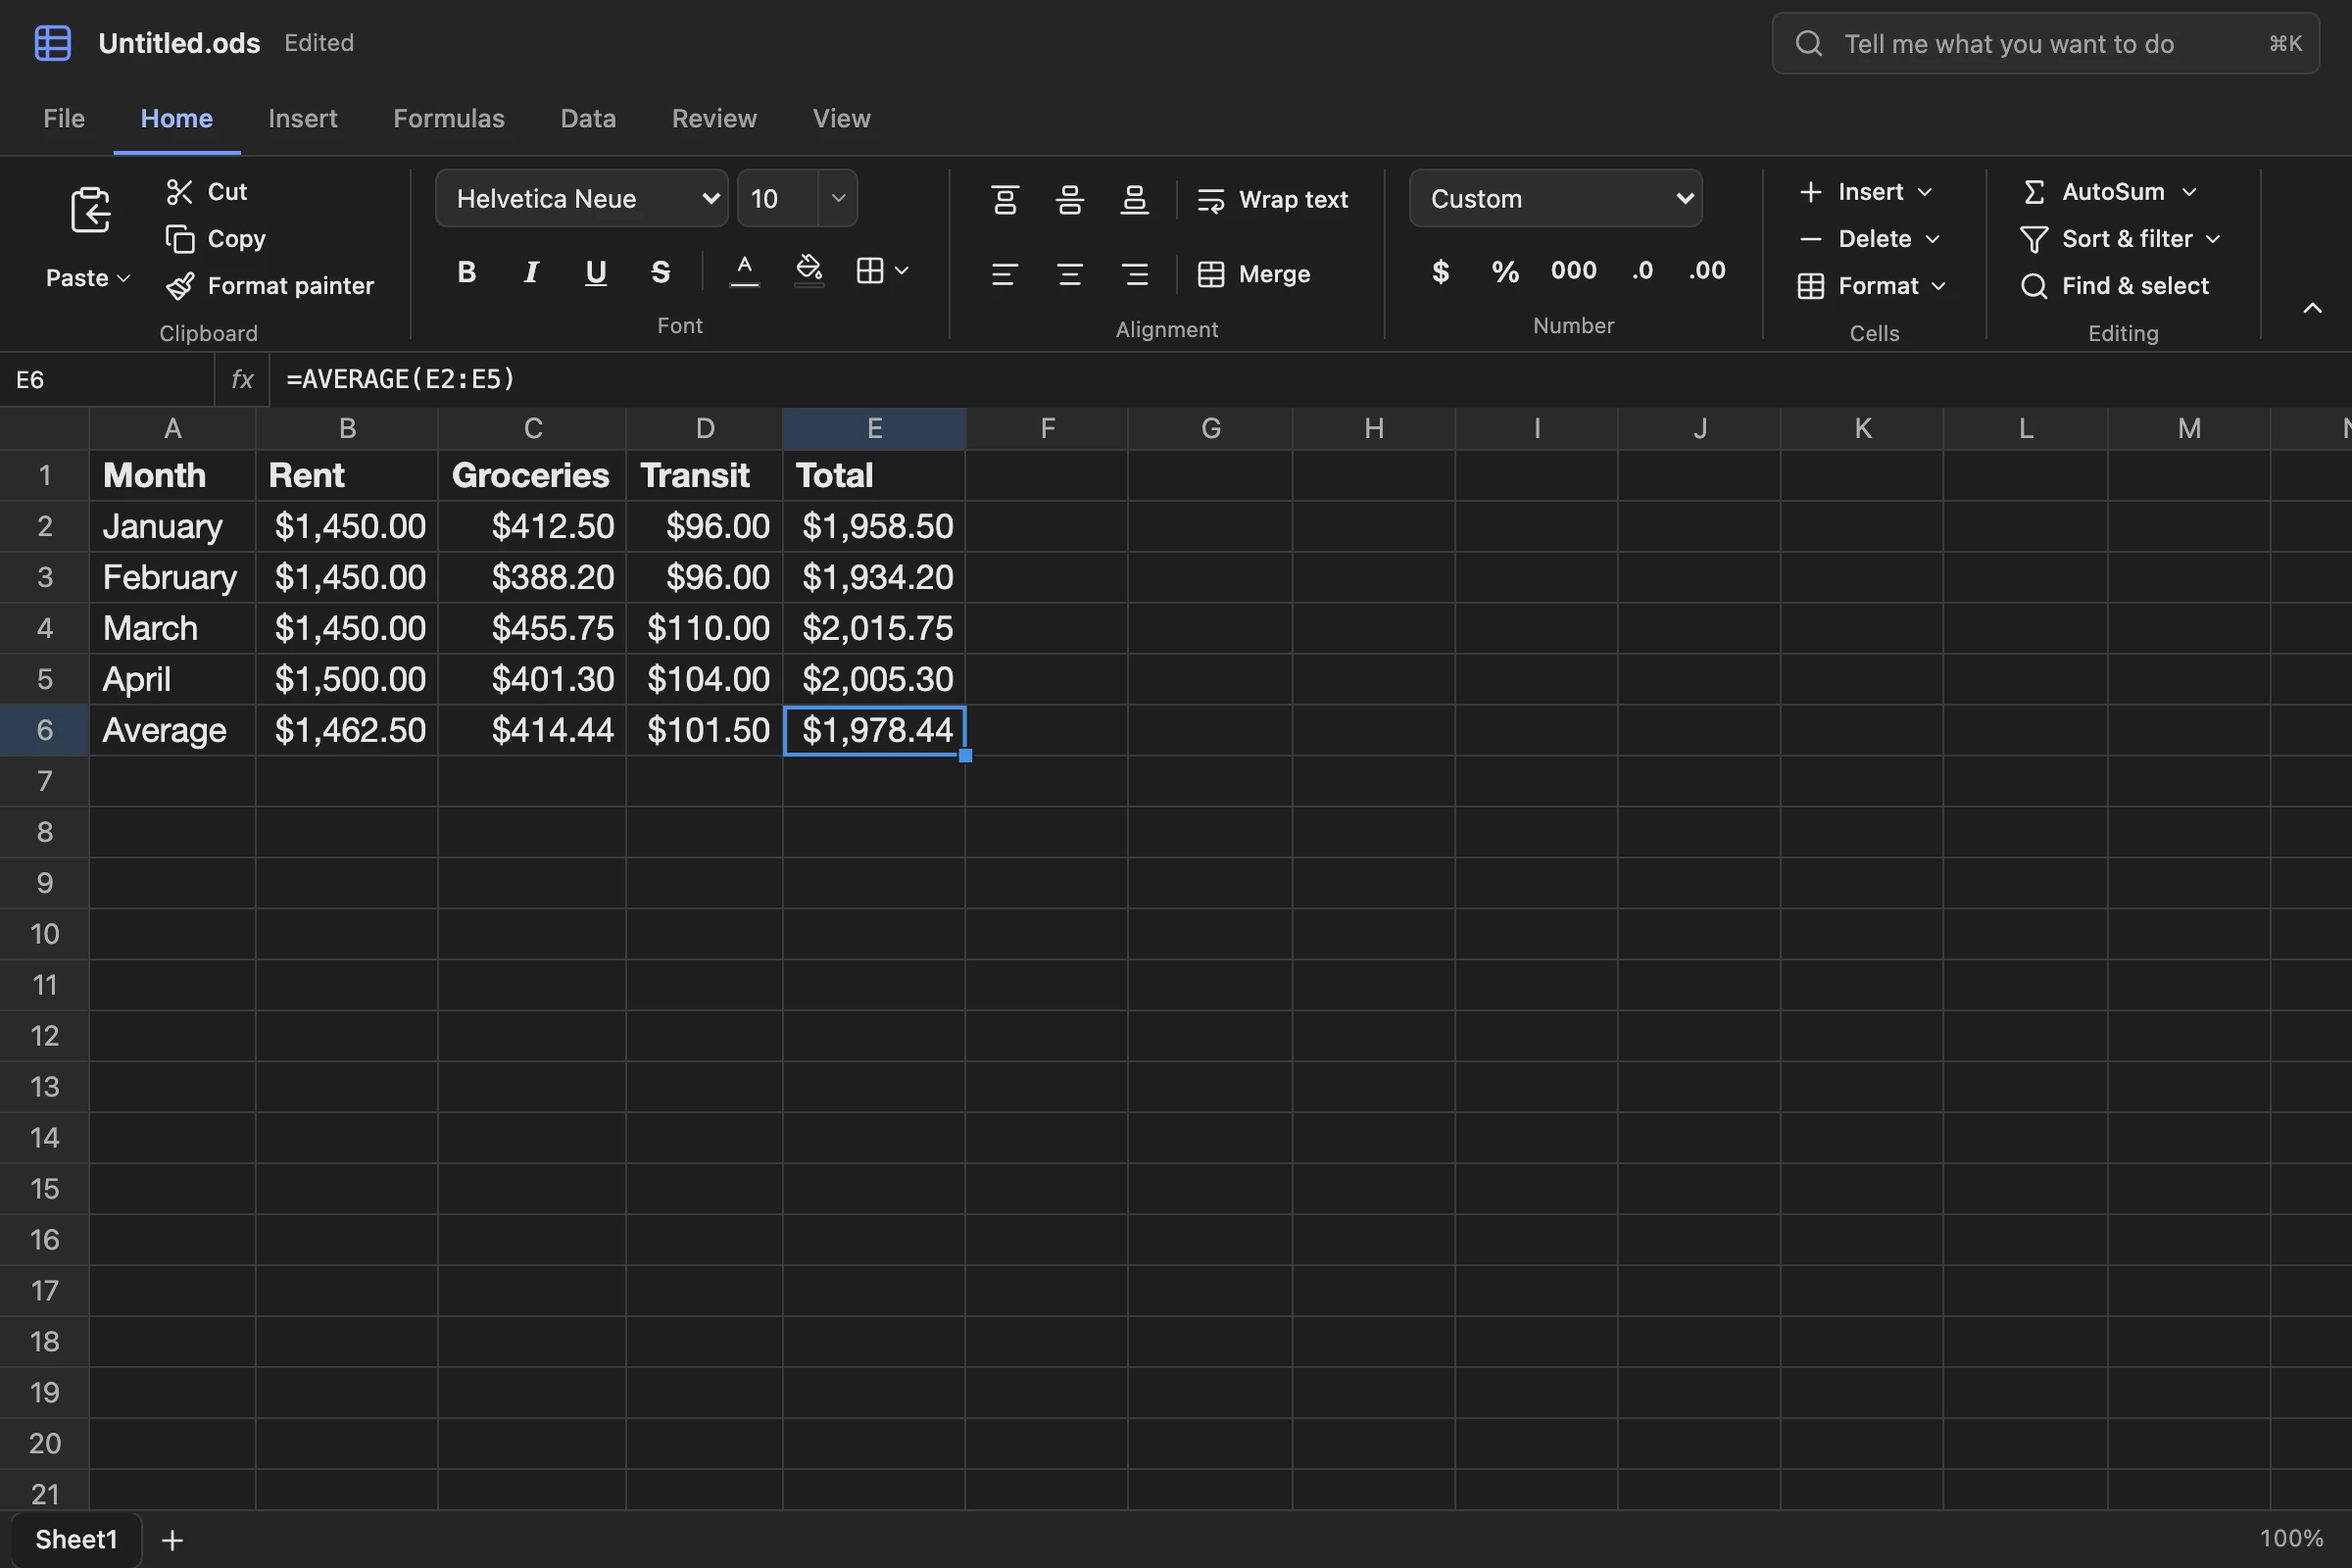
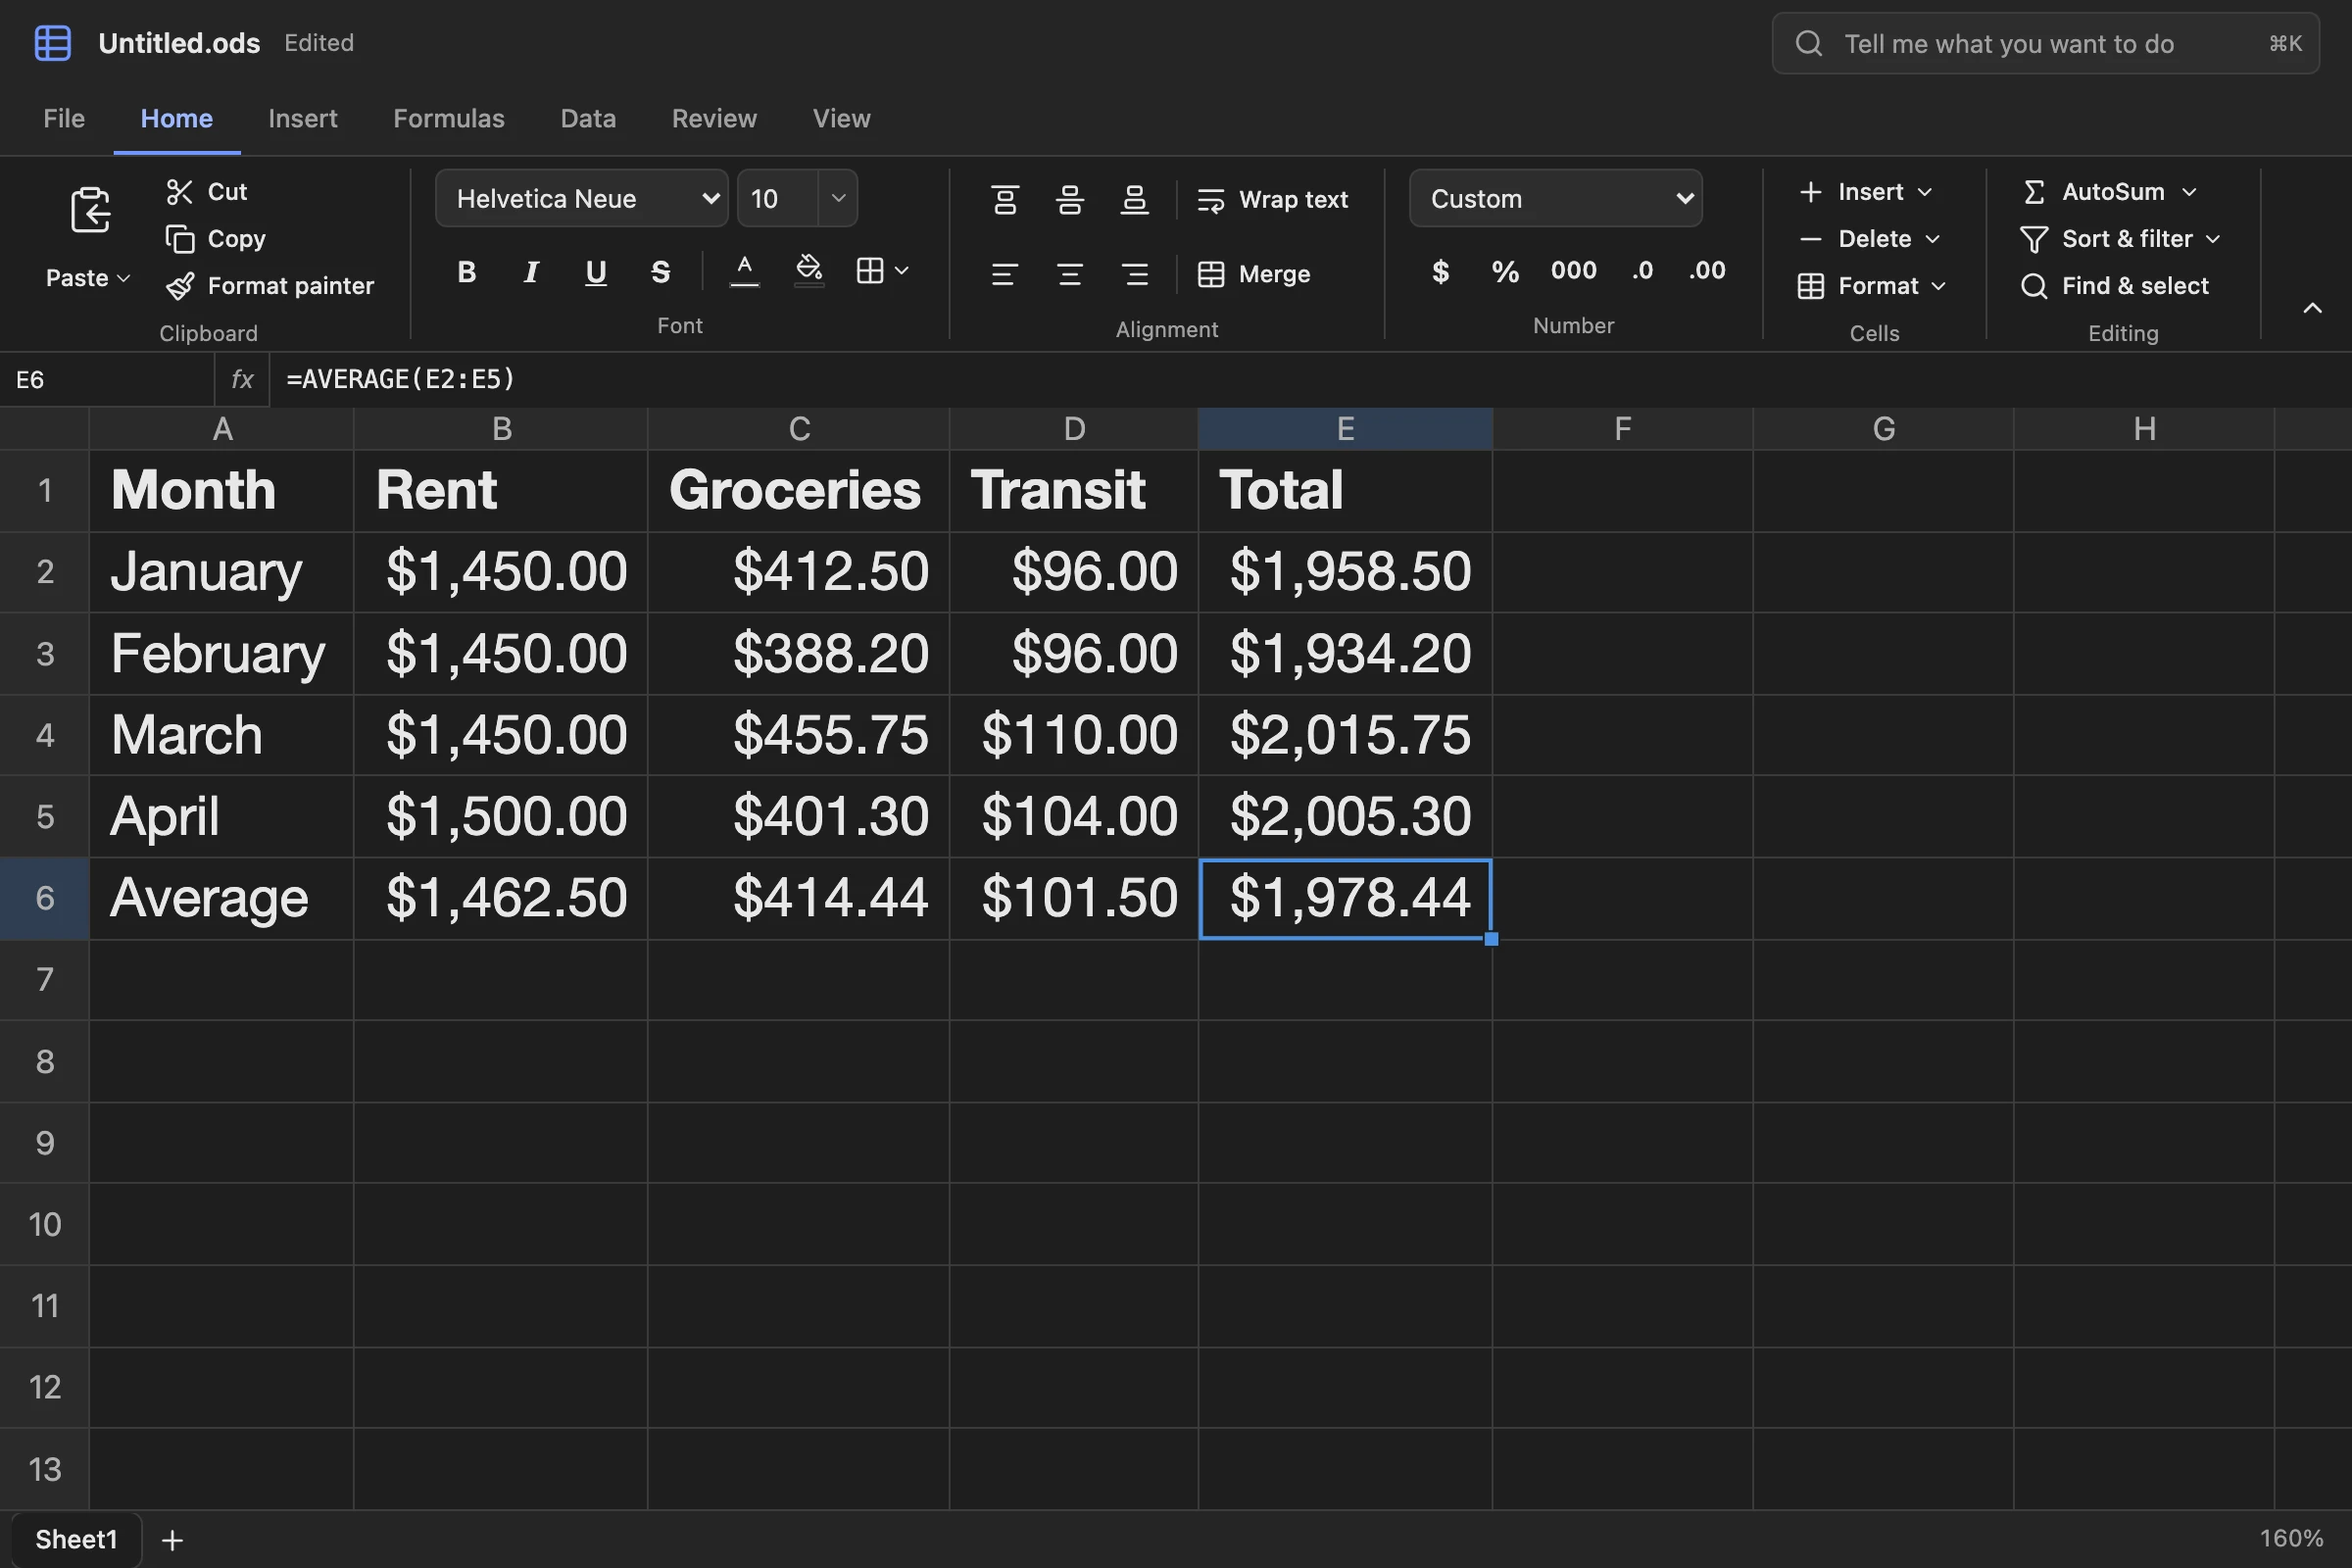
Zoom the screenshot's grid to 160% so the cells are readable

diff --git a/README.md b/README.md
@@ -2,7 +2,7 @@
 
 A spreadsheet editor for OpenDocument spreadsheets (`.ods`). You can use it in your browser, on your NAS from any browser on your network, or as a desktop app, all from the same code, and LibreOffice files survive the round trip.
 
-![Cellestra in dark mode with the Home ribbon open: a small monthly budget with bold column headings Month, Rent, Groceries, Transit and Total, amounts in dollars for January to April, and an Average row whose selected total cell shows the formula =AVERAGE(E2:E5) in the formula bar](docs/images/budget.webp)
+![Cellestra in dark mode with the Home ribbon open: a small monthly budget with bold column headings Month, Rent, Groceries, Transit and Total, amounts in dollars for January to April, and an Average row whose selected total cell shows the formula =AVERAGE(E2:E5) in the formula bar, with the grid zoomed to 160%](docs/images/budget.webp)
 
 - **Works with LibreOffice files.** It reads and writes `.ods`, keeps anything it doesn't understand intact, and imports and exports CSV and TSV.
 - **Formulas like LibreOffice Calc.** 47 functions with the same syntax, automatic recalculation and circular-reference detection.

diff --git a/docs/features.md b/docs/features.md
@@ -2,7 +2,7 @@
 
 Cellestra is a spreadsheet editor for OpenDocument spreadsheets (`.ods`). It runs in the browser, on your NAS and on the desktop, all from the same code. Every command is in one catalog, so the ribbon, the menus, the command menu and the shortcuts always agree.
 
-![Cellestra in dark mode with the Home ribbon open: a small monthly budget with bold column headings Month, Rent, Groceries, Transit and Total, amounts in dollars for January to April, and an Average row whose selected total cell shows the formula =AVERAGE(E2:E5) in the formula bar](images/budget.webp)
+![Cellestra in dark mode with the Home ribbon open: a small monthly budget with bold column headings Month, Rent, Groceries, Transit and Total, amounts in dollars for January to April, and an Average row whose selected total cell shows the formula =AVERAGE(E2:E5) in the formula bar, with the grid zoomed to 160%](images/budget.webp)
 
 ## Three ways to run it
 
